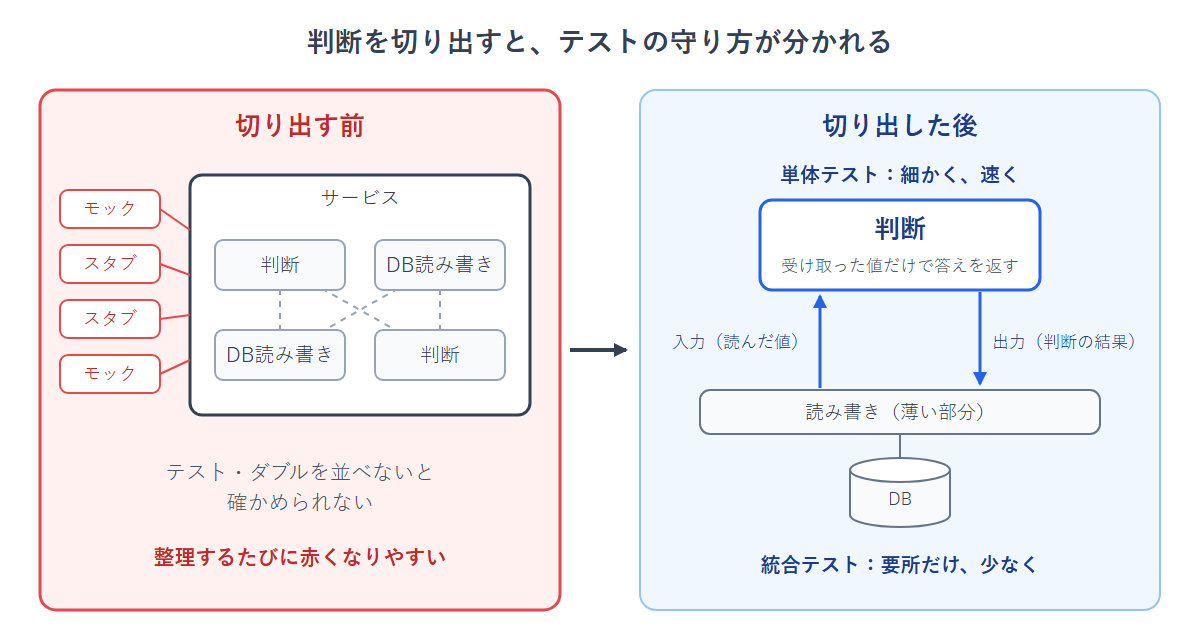
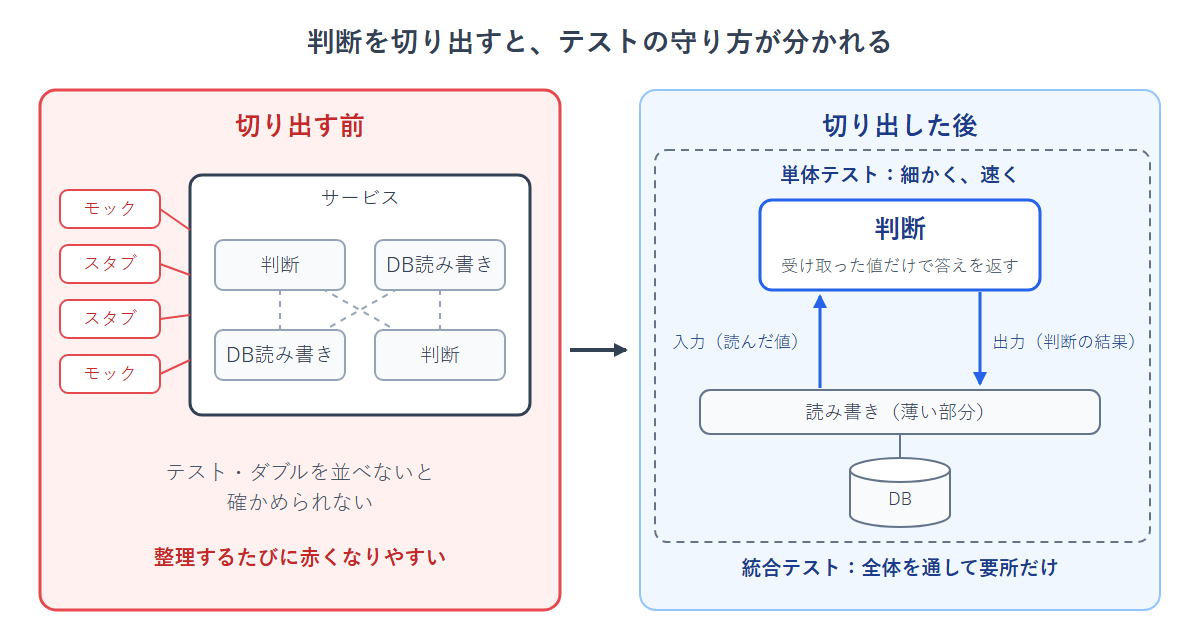
fix: 単体テスト記事の5章・6章を読みやすくし、統合テストの扱いを正確にする
- 5章に本書の統合テストの定義をメッセージボックスで追加し、6章の括弧の補足を簡潔に
- 6章の Validator の要点をメッセージボックスに
- 「作りの詳細を確かめるテスト」の言い過ぎを「気づけないことがあります」に修正
- 6章の見出しを「テストを足場に、設計を整える」に変更し、足場の3段の図を追加
- 統合テストは判断も含めて全体を通し、確かめる流れを絞ることを本文と図に反映

🤖 Generated with [Claude Code](https://claude.com/claude-code)

Changed region(s): [[0.6167, 0.8438, 0.8942, 0.9062]]

diff --git a/articles/unit-testing-principles-essence.md b/articles/unit-testing-principles-essence.md
@@ -163,6 +163,12 @@ orderRepository.Verify(r => r.Insert(It.Is<Order>(o => o.Quantity == 216m)), Tim
 そのデータベースは外の世界ではなく、アプリケーションの一部、つまり実装の詳細だからです。
 モックで確かめてよいのは、書いた中身がほかのシステムからも読まれる場合です。
 
+:::message
+ここでいう統合テストは、本書の定義に従います。
+本書では、1つの振る舞いを、速く、ほかのテストから隔離して確かめるものを単体テストと呼び、そのどれかを満たさないテストをすべて統合テストと呼びます。
+データベースまでつなげて確かめるテストは、その代表です。画面から通すE2Eテストも、統合テストの一種です。
+:::
+
 ### 見逃しの兆候
 
 - 緑になる理由が、本体ではなく、テストが準備したスタブの返す値にある
@@ -295,15 +301,18 @@ public void Register(OrderRequest request)
 }
 ```
 
+:::message
 Validator を別のクラスに分けるだけでは、まだ半分です。
 要点は、判断に必要な値を受け取る形にすることです。
 クラスを分けても、その中でデータベースを読んでいれば、テストには結局スタブが要ります。
+:::
 
 切り出した判断は、スタブに差し替える必要がありません。
 前の章の丸めのテストのように、確かめたいはずの判断そのものをスタブにしてしまうことも、なくなります。
 
 読み書きの部分は、その判断のとおりに動く薄い役割に絞れます。
-この薄い部分は、実際のデータベースまで通して確かめるテスト（本書でいう統合テスト。画面から通すE2Eテストも、その一種です）で守ります。
+この薄い部分は、実際のデータベースまで通して確かめる統合テストで守ります。
+統合テストは判断も含めて全体を通しますが、確かめる流れは絞ります。
 統合テストは遅く、準備も重いので、数は絞り、壊れると困る流れだけを守ります。
 判断は速い単体テストで細かく、データベースとのつながりは統合テストで要所だけ。
 それぞれの強みに合わせて守る範囲を分けることも、前に見た「テストを設計する」ことです。
@@ -326,9 +335,9 @@ AIに「テストを書いて」とだけ頼むと、テストを通すために
 判断を切り出すことと、中身を晒すことは違います。
 切り出した判断は、「この入力ならこの結果」という約束を持つ、新しい部品です。
 晒した中身は、約束ではなく作りの詳細です。
-作りの詳細を確かめるテストは、整理すれば赤くなり、本当に壊れても気づけません。
+作りの詳細を確かめるテストは、整理すれば赤くなり、本当に壊れても気づけないことがあります。
 
-### 設計が悪いコードにも、先にテストを書く
+### テストを足場に、設計を整える
 
 ここで、「設計の悪いコードにテストを書いても意味がない。まず設計を直すべきだ」と思った方もいるかもしれません。
 もっともな意見です。
@@ -347,6 +356,8 @@ AIに「テストを書いて」とだけ頼むと、テストを通すために
 まず、統合テストで今の振る舞いを守ります。
 次に、その安全網の上で判断を切り出します。
 切り出せたら、細かい確認は単体テストに移し、統合テストは要所だけを残します。
+
+![統合テストを足場として組み、その安全網の上で判断を切り出し、細かい確認を単体テストへ移して統合テストは要所だけ残す、という3段の進め方。主役は中の設計で、テストはそれを支える足場](/images/unit-testing-principles-essence/scaffold-steps.png)
 
 良いテストを書くとは、テストの書き方を工夫するだけでなく、確かめやすい形に設計を整えることでもあります。
 良いテストを考えることと、良い設計を考えることは、同じ問いの表と裏です。
